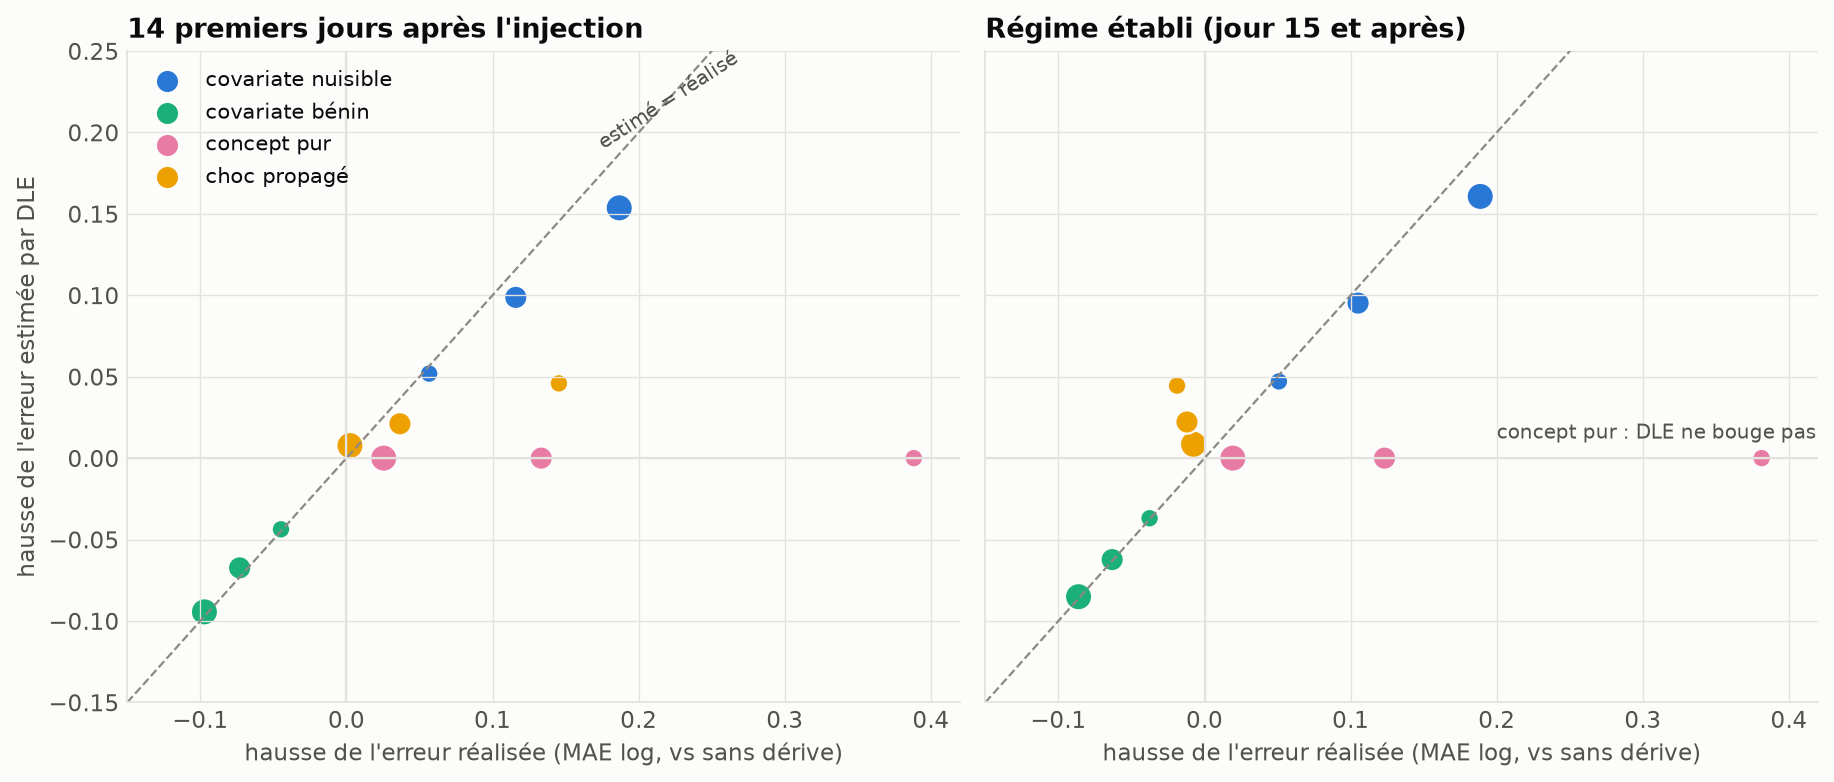
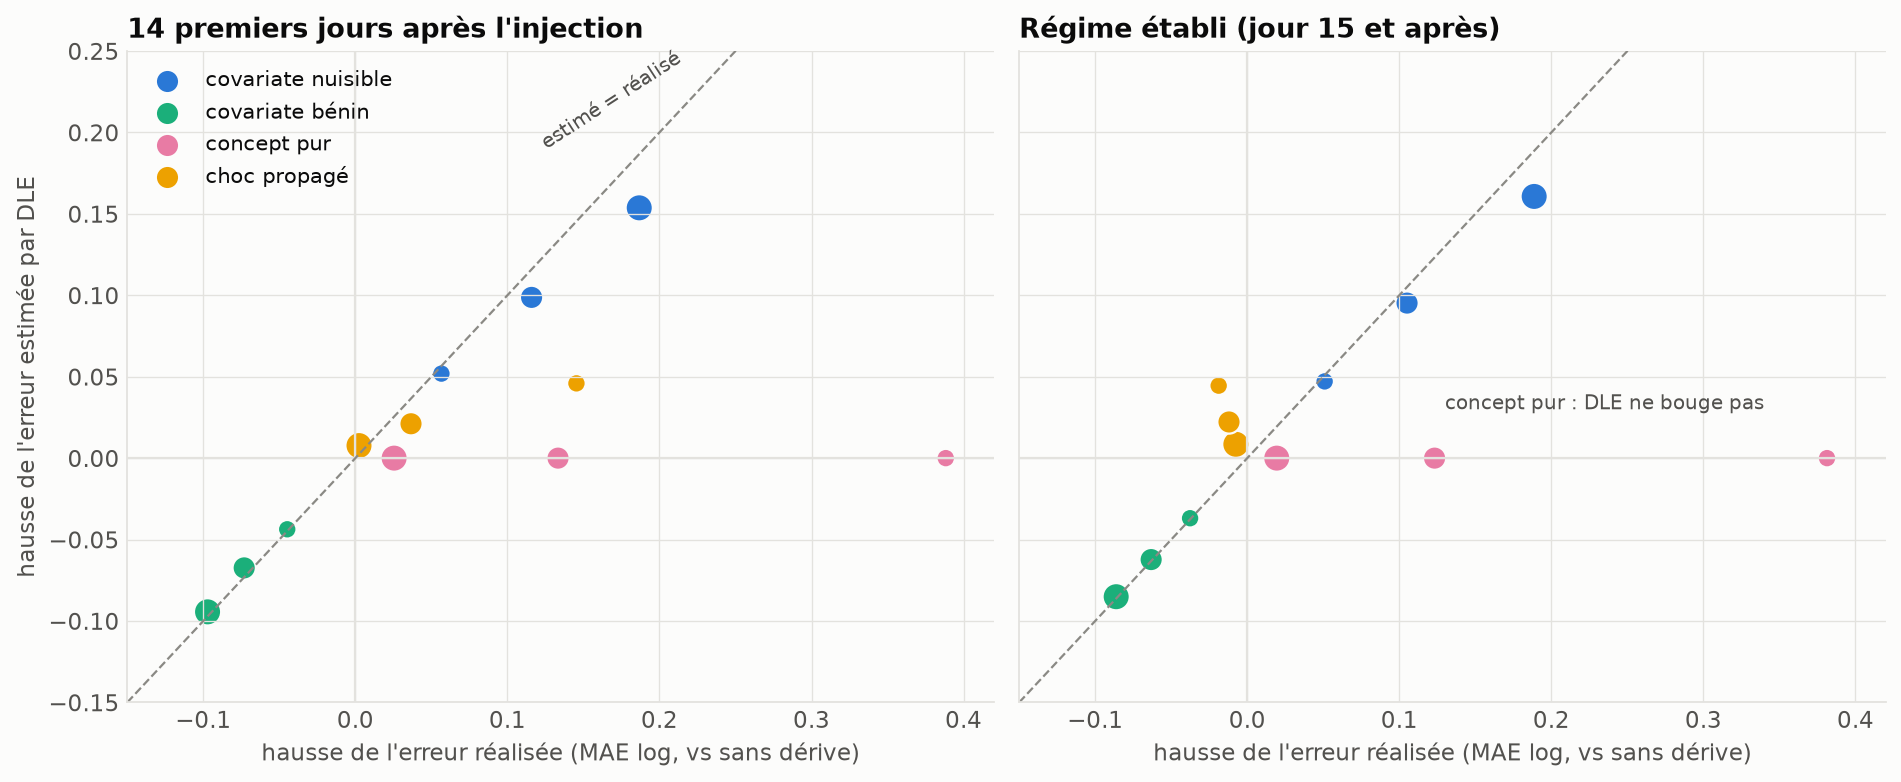
fix(figures): frontière E3, annotations sans chevauchement ni coupure

diff --git a/scripts/make_result_figures.py b/scripts/make_result_figures.py
@@ -428,8 +428,10 @@ def e3_frontier() -> None:
         ax.set_title(title)
         ax.grid(axis="x")
     axes[0].set_ylabel("hausse de l'erreur estimée par DLE")
-    axes[0].annotate("estimé = réalisé", (0.17, 0.19), rotation=33, fontsize=9, color=viz.INK2)
-    axes[1].annotate("concept pur : DLE ne bouge pas", (0.20, 0.012), fontsize=9, color=viz.INK2)
+    axes[0].annotate("estimé = réalisé", (0.12, 0.19), rotation=33, fontsize=9, color=viz.INK2)
+    axes[1].annotate(
+        "concept pur : DLE ne bouge pas", (0.13, 0.03), fontsize=9, color=viz.INK2
+    )  # au-dessus des points à y = 0, sans dépasser le bord droit
     axes[0].legend(loc="upper left")
     fig.tight_layout()
     viz.save(fig, "e3_frontiere")
